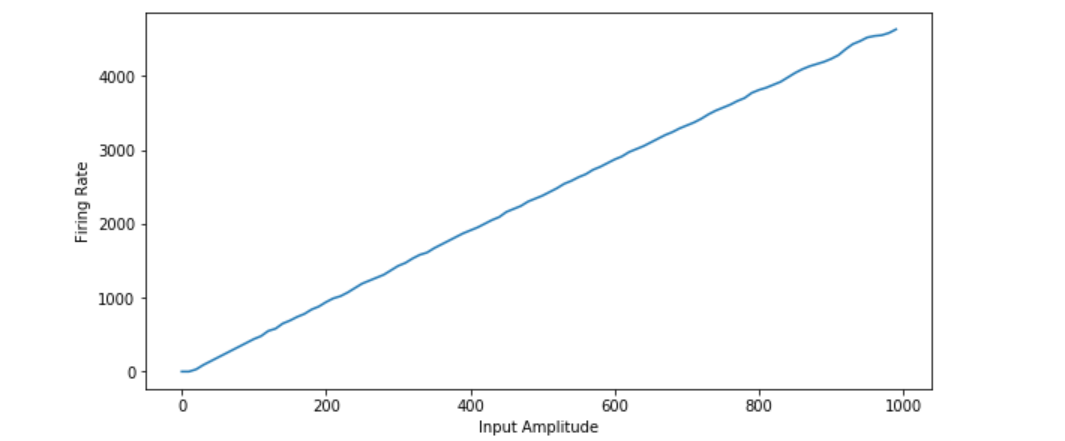
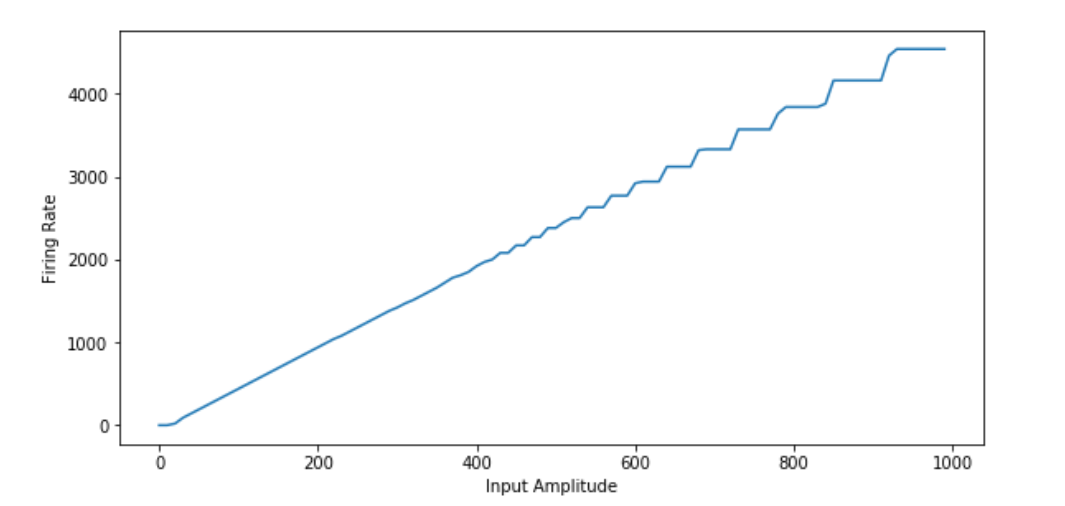
Update LIF code & doc with BrainPy(0.2.0)

diff --git a/nbmodels/neurons/LIF_model.py b/nbmodels/neurons/LIF_model.py
@@ -1,15 +1,16 @@
 import numpy as np
-import npbrain as nb
+import brainpy as bp
 import matplotlib.pyplot as plt
 
+print("version：", bp.__version__)
 ## set global params
 dt = 0.02        # update variables per <dt> ms
 duration = 100.  # simulate duration
-nb.profile.set(backend = "numba", dt = dt, merge_ing = True)
+bp.profile.set(backend = "numba", dt = dt, merge_steps = True)
 
 ## define Leaky Integrate-and-Fire model
 def LIF_model(Vr = 0., Vth = 20., Rm = 1., Cm = 10., tau_m = 10., refTime = 5., noise = 0.):
-    ST = nb.types.NeuState(
+    ST = bp.types.NeuState(
         {'Vm': 0, 'refState': 0, 'input':0, 'spikeCnt':0}
     )  
     '''
@@ -20,11 +21,9 @@ def LIF_model(Vr = 0., Vth = 20., Rm = 1., Cm = 10., tau_m = 10., refTime = 5., 
     spikeCnt: total spike cnt (record to compute firing rate).
     '''
     
-    g = lambda V, _t_, I_syn: noise / tau_m
-    
-    @nb.integrate (noise = g)
+    @bp.integrate
     def int_v(V, _t_, I_syn):  # integrate u(t)
-        return (- ( V - Vr ) + Rm * I_syn) / tau_m
+        return (- ( V - Vr ) + Rm * I_syn) / tau_m, noise / tau_m
 
     def update(ST, _t_):  
         # update variables
@@ -40,29 +39,28 @@ def LIF_model(Vr = 0., Vth = 20., Rm = 1., Cm = 10., tau_m = 10., refTime = 5., 
             ST['refState'] -= 1
         ST['input'] = 0.  #ST['input'] is current input (only valid for current step, need reset each step)
     
-    return nb.NeuType(name = 'LIF_neuron', requires = dict(ST=ST), steps = update, vector_based = False)
+    return bp.NeuType(name = 'LIF_neuron', requires = dict(ST=ST), steps = update, vector_based = False)
 
 LIF_neuron = LIF_model(noise = 1.)
 
-neu = nb.NeuGroup(LIF_neuron, geometry = (10, ), monitors = ['Vm'],
+neu = bp.NeuGroup(LIF_neuron, geometry = (10, ), monitors = ['Vm'],
                   pars_update = {
                   'Vr': np.random.randint(0, 2, size = (10,)),
-                  'tau_m': np.random.randint(5, 10, size = (10,))  #,
-                  #'noise': 1.
+                  'tau_m': np.random.randint(5, 10, size = (10,))  ,
+                  'noise': 1.
                  })  #create a neuron group with 10 neurons.
-neu.update_pars()
-net = nb.Network(neu)
+net = bp.Network(neu)
 
 net.run(duration = duration, inputs = [neu, "ST.input", 26.], report = True)  
 #simulate for 100 ms. Give external input = [receiver, field name, strength]
 
 #paint
 ts = net.ts
-fig, gs = nb.visualize.get_figure(1, 1, 4, 8)
+fig, gs = bp.visualize.get_figure(1, 1, 4, 8)
 
 fig.add_subplot(gs[0, 0])
-plt.plot(ts, neu.mon.Vm[:, 0], label = f'neuron No.{0}, Vr = {neu._pars_to_update["Vr"][0]}mV, tau_m = {neu._pars_to_update["tau_m"][0]}ms.')
-plt.plot(ts, neu.mon.Vm[:, 1], label = f'neuron No.{6}, Vr = {neu._pars_to_update["Vr"][6]}mV, tau_m = {neu._pars_to_update["tau_m"][6]}ms.')
+plt.plot(ts, neu.mon.Vm[:, 0], label = f'neuron No.{0}, Vr = {neu.pars.get("Vr")[0]}mV, tau_m = {neu.pars.get("tau_m")[0]}ms.')
+plt.plot(ts, neu.mon.Vm[:, 6], label = f'neuron No.{6}, Vr = {neu.pars.get("Vr")[6]}mV, tau_m = {neu.pars.get("tau_m")[6]}ms.')
 #paint Vm-t plot of 1st and 2nd neuron
 plt.ylabel('Membrane potential')
 plt.xlim(-0.1, net.t_end - net.t_start + 0.1)

diff --git a/README.rst b/README.rst
@@ -1,0 +1,5 @@
+BrainPy-Models
+===================
+``BrainPy-Models`` is a repository accompany with `BrainPy<https://github.com/PKU-NIP-Lab/BrainPy>`_, which is a framework for spiking neural network simulation. With BrainPy, we implements the most cononical and effective neuron models and synapse models, and show them in ``BrainPy-Models``.
+
+Here, users can learn examples of how to use BrainPy, and directly import our model into your network.
